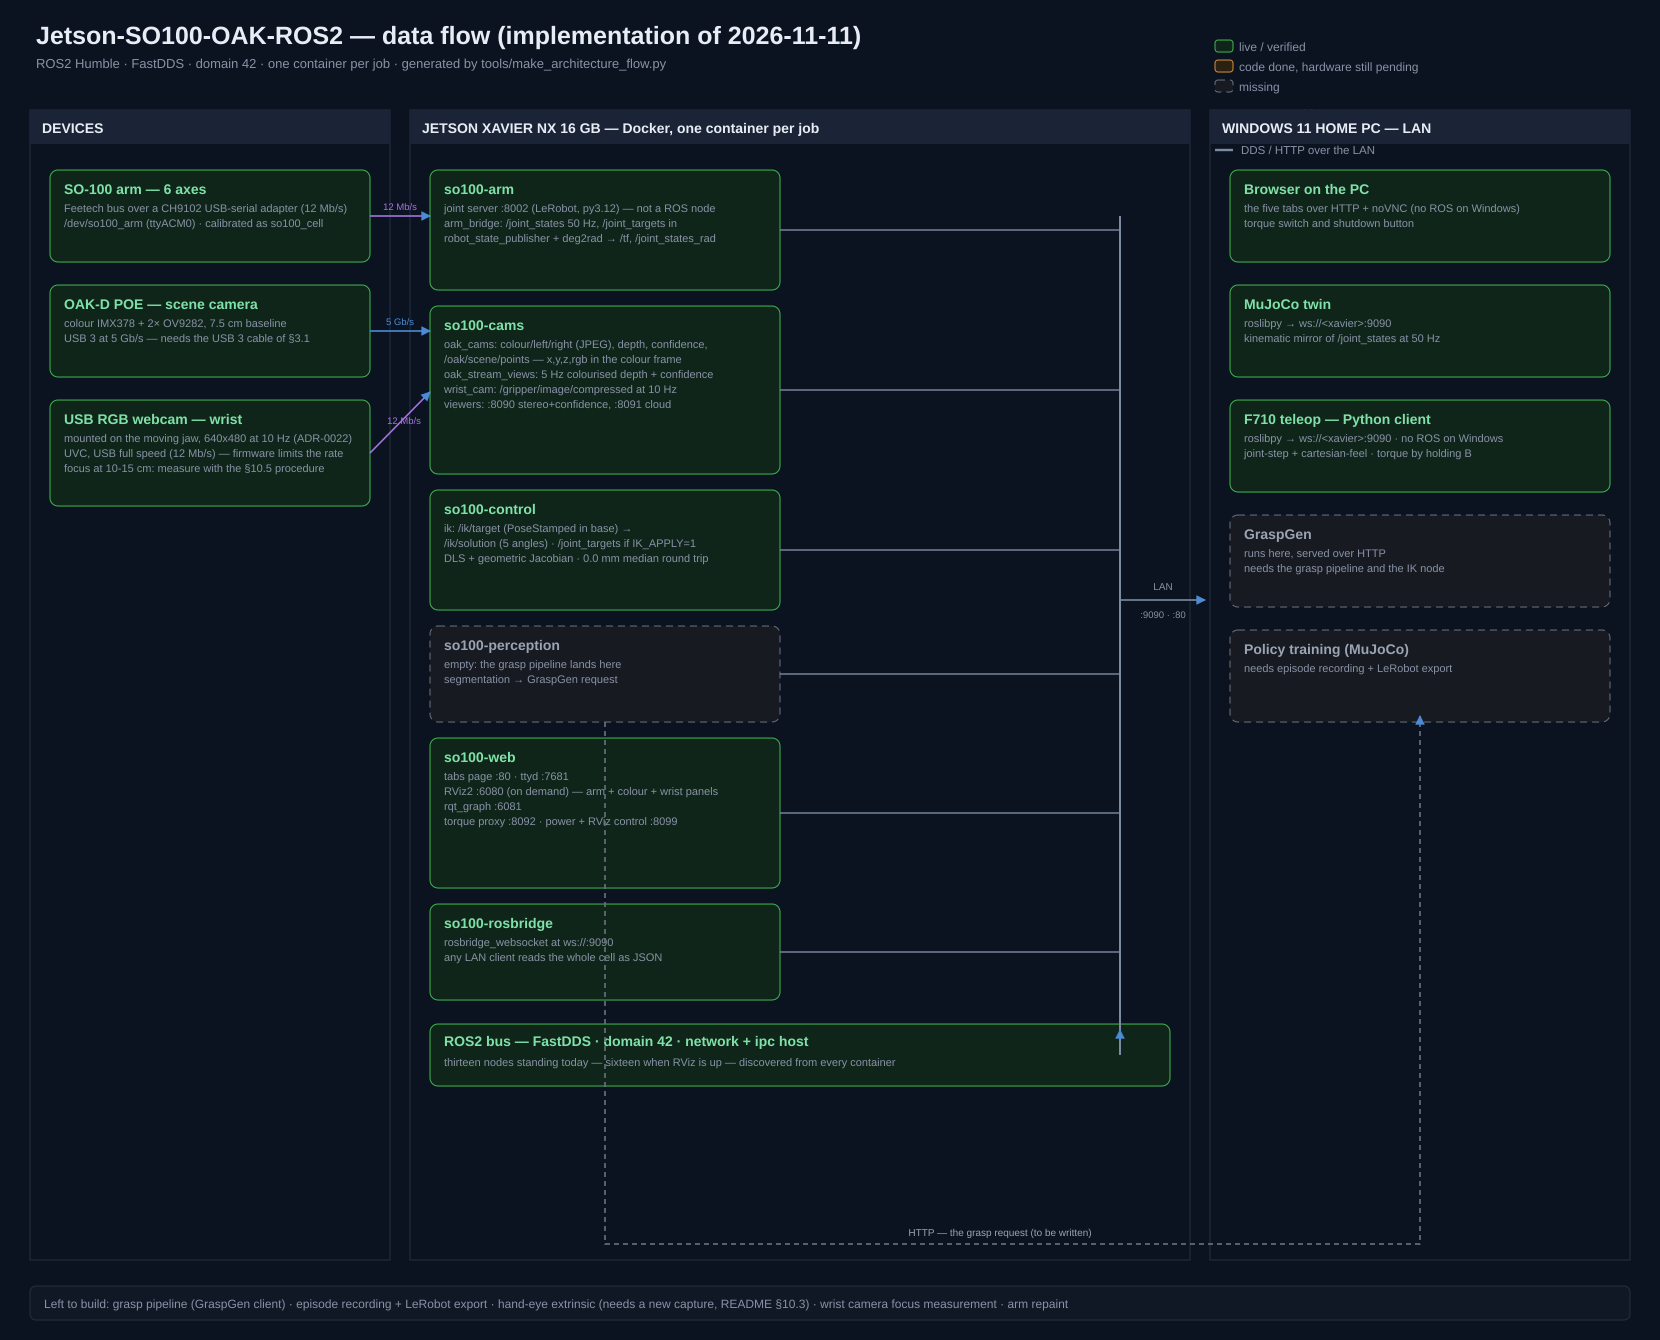
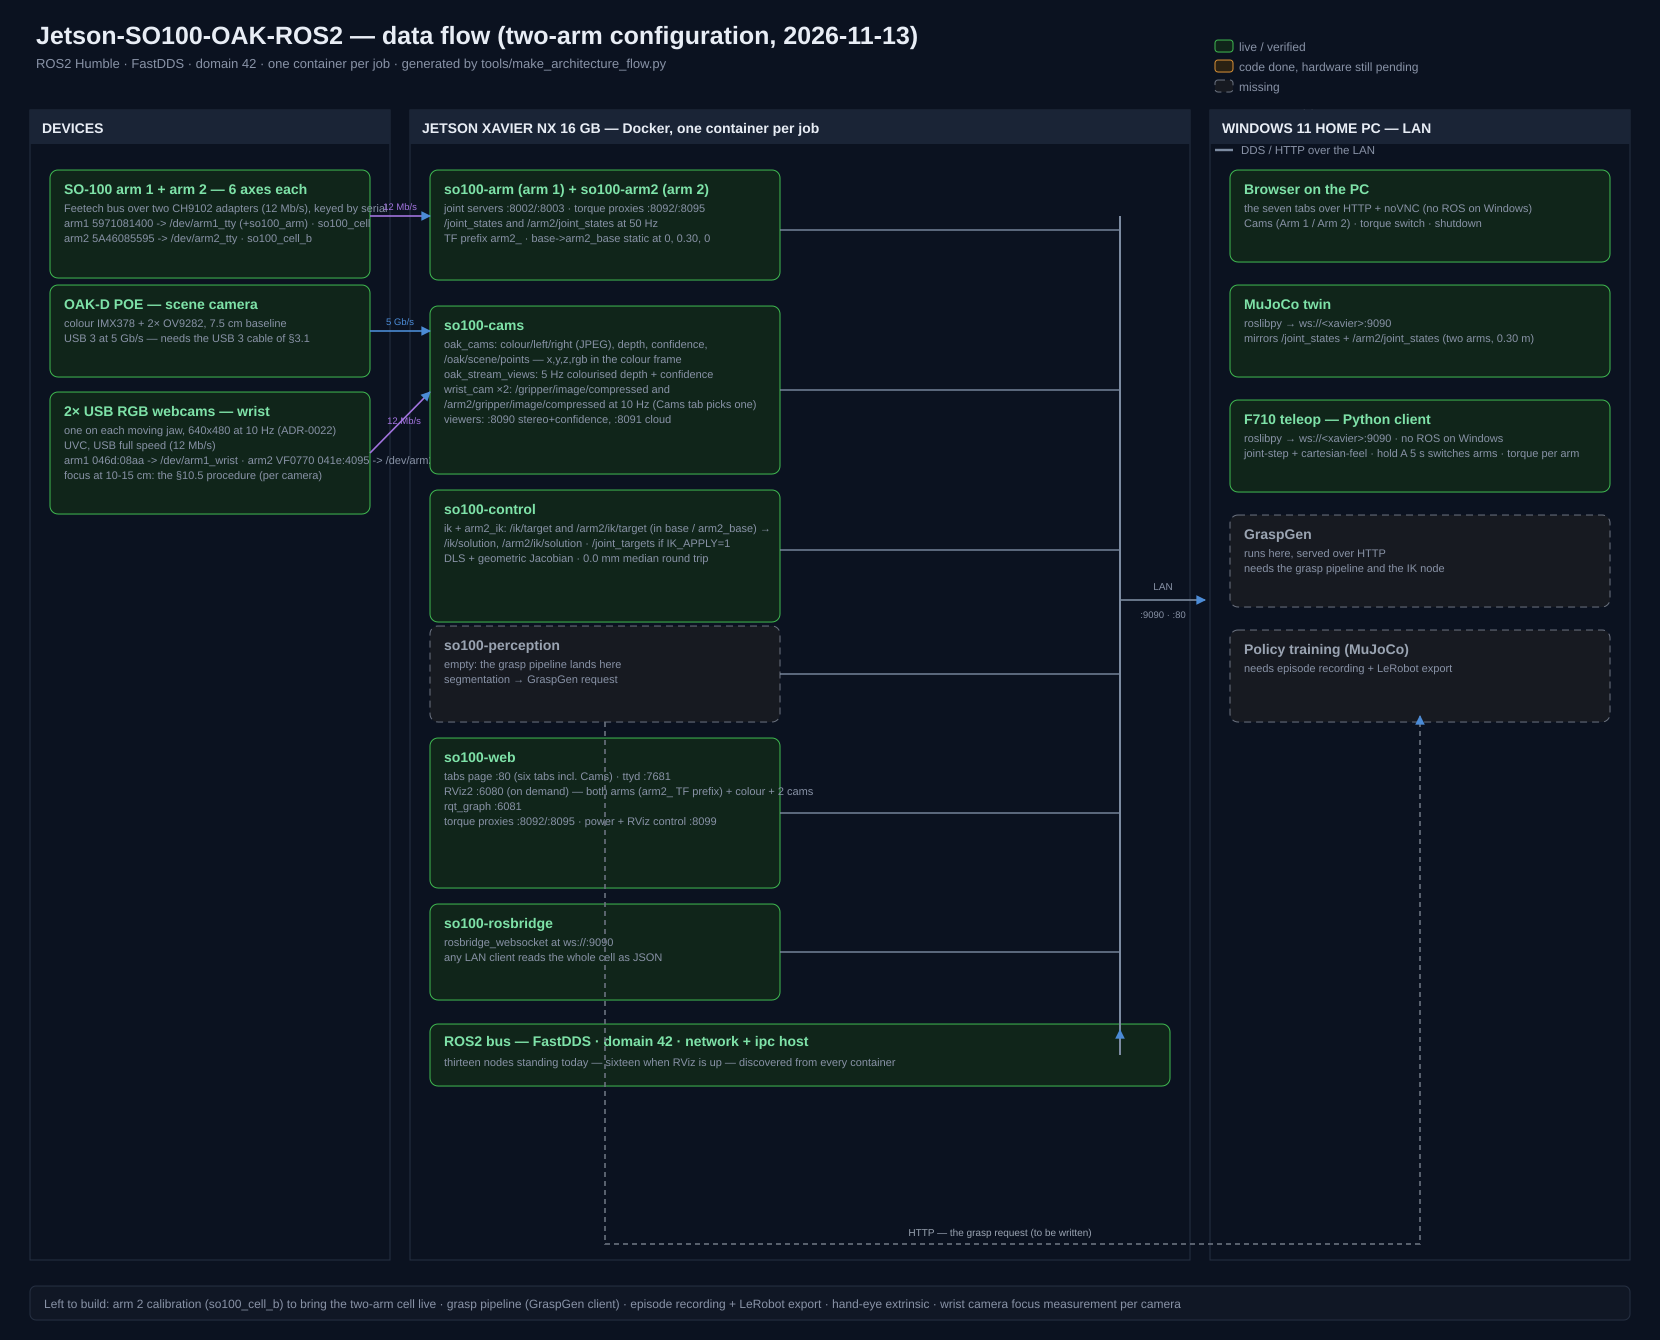
Docs: update the data-flow diagram and README for the two-arm / two-webcam cell
tools/make_architecture_flow.py + regenerated docs/architecture-flow.{svg,png}:
two SO-100 arms (arm1 5971081400 -> /dev/arm1_tty, arm2 5A46085595 -> /dev/arm2_tty),
two wrist webcams (046d:08aa / 041e:4095), so100-arm + so100-arm2, arm2_ TF prefix +
base->arm2_base at 0,0.30,0, control ik + arm2_ik, web Cams tab + two torque proxies,
F710 A-hold switches arms, MuJoCo twin mirrors both. README: note that the tab
screenshots are one-arm and the two-arm captures land once arm 2 is calibrated.

diff --git a/tools/make_architecture_flow.py b/tools/make_architecture_flow.py
@@ -72,7 +72,7 @@ add('<defs><marker id="arw" viewBox="0 0 10 10" refX="9" refY="5" markerWidth="6
     'fill="%s"/></marker></defs>' % BLUE_S)
 add('<rect width="%d" height="%d" fill="%s"/>' % (W, H, BG))
 
-text(36, 44, "Jetson-SO100-OAK-ROS2 — data flow (implementation of 2026-11-11)", 25, INK, bold=True)
+text(36, 44, "Jetson-SO100-OAK-ROS2 — data flow (two-arm configuration, 2026-11-13)", 25, INK, bold=True)
 text(36, 68, "ROS2 Humble · FastDDS · domain 42 · one container per job · generated by "
              "tools/make_architecture_flow.py", 13)
 
@@ -102,33 +102,36 @@ for x, y, w, h, title in frames:
     text(x + 12, y + 23, title, 14, INK, bold=True)
 
 # ----------------------------------------------------------------- devices
-card(50, 170, 320, 92, "SO-100 arm — 6 axes",
-     ["Feetech bus over a CH9102 USB-serial adapter (12 Mb/s)",
-      "/dev/so100_arm (ttyACM0) · calibrated as so100_cell"])
+card(50, 170, 320, 108, "SO-100 arm 1 + arm 2 — 6 axes each",
+     ["Feetech bus over two CH9102 adapters (12 Mb/s), keyed by serial",
+      "arm1 5971081400 -> /dev/arm1_tty (+so100_arm) · so100_cell",
+      "arm2 5A46085595 -> /dev/arm2_tty · so100_cell_b"], "green")
 card(50, 285, 320, 92, "OAK-D POE — scene camera",
      ["colour IMX378 + 2× OV9282, 7.5 cm baseline",
       "USB 3 at 5 Gb/s — needs the USB 3 cable of §3.1"])
-card(50, 400, 320, 106, "USB RGB webcam — wrist", [
-     "mounted on the moving jaw, 640x480 at 10 Hz (ADR-0022)",
-     "UVC, USB full speed (12 Mb/s) — firmware limits the rate",
-     "focus at 10-15 cm: measure with the §10.5 procedure"], "green")
+card(50, 392, 320, 122, "2× USB RGB webcams — wrist", [
+     "one on each moving jaw, 640x480 at 10 Hz (ADR-0022)",
+     "UVC, USB full speed (12 Mb/s)",
+     "arm1 046d:08aa -> /dev/arm1_wrist · arm2 VF0770 041e:4095 -> /dev/arm2_wrist",
+     "focus at 10-15 cm: the §10.5 procedure (per camera)"], "green")
 
 # ----------------------------------------------------------------- containers
-card(430, 170, 350, 120, "so100-arm", [
-    "joint server :8002 (LeRobot, py3.12) — not a ROS node",
-    "arm_bridge: /joint_states 50 Hz, /joint_targets in",
-    "robot_state_publisher + deg2rad → /tf, /joint_states_rad"], "green")
+card(430, 170, 350, 110, "so100-arm (arm 1) + so100-arm2 (arm 2)", [
+    "joint servers :8002/:8003 · torque proxies :8092/:8095",
+    "/joint_states and /arm2/joint_states at 50 Hz",
+    "TF prefix arm2_ · base->arm2_base static at 0, 0.30, 0"], "green")
 
 card(430, 306, 350, 168, "so100-cams", [
     "oak_cams: colour/left/right (JPEG), depth, confidence,",
     "/oak/scene/points — x,y,z,rgb in the colour frame",
     "oak_stream_views: 5 Hz colourised depth + confidence",
-    "wrist_cam: /gripper/image/compressed at 10 Hz",
+    "wrist_cam ×2: /gripper/image/compressed and",
+    "  /arm2/gripper/image/compressed at 10 Hz (Cams tab picks one)",
     "viewers: :8090 stereo+confidence, :8091 cloud"], "green")
 
-card(430, 490, 350, 120, "so100-control", [
-    "ik: /ik/target (PoseStamped in base) →",
-    "/ik/solution (5 angles) · /joint_targets if IK_APPLY=1",
+card(430, 490, 350, 132, "so100-control", [
+    "ik + arm2_ik: /ik/target and /arm2/ik/target (in base / arm2_base) →",
+    "/ik/solution, /arm2/ik/solution · /joint_targets if IK_APPLY=1",
     "DLS + geometric Jacobian · 0.0 mm median round trip"], "green")
 
 card(430, 626, 350, 96, "so100-perception", [
@@ -136,10 +139,10 @@ card(430, 626, 350, 96, "so100-perception", [
     "segmentation → GraspGen request"], "grey")
 
 card(430, 738, 350, 150, "so100-web", [
-    "tabs page :80 · ttyd :7681",
-    "RViz2 :6080 (on demand) — arm + colour + wrist panels",
+    "tabs page :80 (six tabs incl. Cams) · ttyd :7681",
+    "RViz2 :6080 (on demand) — both arms (arm2_ TF prefix) + colour + 2 cams",
     "rqt_graph :6081",
-    "torque proxy :8092 · power + RViz control :8099"], "green")
+    "torque proxies :8092/:8095 · power + RViz control :8099"], "green")
 
 card(430, 904, 350, 96, "so100-rosbridge", [
     "rosbridge_websocket at ws://:9090",
@@ -152,14 +155,14 @@ text(444, 1066, "thirteen nodes standing today — sixteen when RViz is up — d
 
 # ----------------------------------------------------------------- windows
 card(1230, 170, 380, 92, "Browser on the PC", [
-    "the five tabs over HTTP + noVNC (no ROS on Windows)",
-    "torque switch and shutdown button"], "green")
+    "the seven tabs over HTTP + noVNC (no ROS on Windows)",
+    "Cams (Arm 1 / Arm 2) · torque switch · shutdown"], "green")
 card(1230, 285, 380, 92, "MuJoCo twin", [
     "roslibpy → ws://<xavier>:9090",
-    "kinematic mirror of /joint_states at 50 Hz"], "green")
+    "mirrors /joint_states + /arm2/joint_states (two arms, 0.30 m)"], "green")
 card(1230, 400, 380, 92, "F710 teleop — Python client", [
     "roslibpy → ws://<xavier>:9090 · no ROS on Windows",
-    "joint-step + cartesian-feel · torque by holding B"], "green")
+    "joint-step + cartesian-feel · hold A 5 s switches arms · torque per arm"], "green")
 card(1230, 515, 380, 92, "GraspGen", [
     "runs here, served over HTTP",
     "needs the grasp pipeline and the IK node"], "grey")
@@ -197,9 +200,9 @@ label(1000, 1236, "HTTP — the grasp request (to be written)", GREY_T, 10)
 
 # ----------------------------------------------------------------- bottom band
 add('<rect x="30" y="1286" width="1600" height="34" rx="6" fill="#101725" stroke="%s"/>' % FRAME)
-text(44, 1308, "Left to build:  grasp pipeline (GraspGen client) · episode recording + LeRobot "
-               "export · hand-eye extrinsic (needs a new capture, README §10.3) · wrist camera "
-               "focus measurement · arm repaint", 12, DIM)
+text(44, 1308, "Left to build:  arm 2 calibration (so100_cell_b) to bring the two-arm cell live · "
+               "grasp pipeline (GraspGen client) · episode recording + LeRobot export · hand-eye "
+               "extrinsic · wrist camera focus measurement per camera", 12, DIM)
 
 add("</svg>")
 open("docs/architecture-flow.svg", "w").write("\n".join(out) + "\n")

diff --git a/README.md b/README.md
@@ -671,7 +671,10 @@ One page at **http://<xavier-ip>/** with six tabs, served by the `so100-web` con
 | **Graph** | http://192.168.1.50:6081/vnc.html | rqt_graph: every node/topic in the cell and how they connect |
 | **RViz** | http://192.168.1.50:6080/vnc.html | RViz2: the arm at its live pose, drawn with the **SO-101 model** (the hardware is an SO-100, [§2.3](#23-next)), the grid, TF, the scene **Colour camera** and the **Wrist camera** (the gripper webcam, ADR-0022). **Started on demand** — see below |
 
-What each tab actually looks like, captured on the bench (2026-11-10):
+What each tab actually looks like, captured on the bench (2026-11-10, **one arm**). The
+two-arm captures — both models in RViz, both wrist cameras in the Cams tab — land here once
+arm 2 is calibrated (`so100_cell_b`) and `so100-arm2` is running; the tab list already shows
+the renamed **Cams** tab and its Arm 1 / Arm 2 selector for the single-arm case.
 
 | | |
 |---|---|
